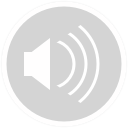
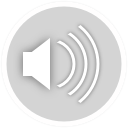
UI tweaks
Only show checkbox on hover in option 1
Update video/audio icons.
Added note about browsers

Changed region(s): [[0.1875, 0.1875, 0.8125, 0.8125], [0.125, 0.4062, 0.1875, 0.5938]]

diff --git a/asset-bank/panels/index.html b/asset-bank/panels/index.html
@@ -43,6 +43,7 @@
 		<div class="msg-info msg--noicon">
 			<h3>Asset Bank: Asset Panels Prototype</h3>
 			<ul>
+				<li>This prototype will not yet display correctly in Internet Explorer. Please use Chrome, Firefox or Safari.</li>
 				<li>These panels will appear when browsing and searching Asset Bank.</li>
 				<li>You can select the assets, add/remove from lightbox and click through to a dummy detail page.</li>
 				<li>The download links do not do anything, but show how extra functionality could be incorporated.</li>
@@ -56,7 +57,7 @@
 	
 
 
-		<h2>Option 1 <small>- More compact, controls overlay images</small></h2>
+		<h2>Option 1 <small>- More compact and minimal, controls appear on hover and overlay the images</small></h2>
 
 		<ul class="panel__collection">
 

diff --git a/asset-bank/panels/iconbtn.css b/asset-bank/panels/iconbtn.css
@@ -60,7 +60,7 @@
 	outline: 0;
 }
 
-.iconbtn__btn:hover > i
+.iconbtn__btn:hover > i,
 .iconbtn__btn:active > i,
 .iconbtn__btn:focus > i  {
 	color: #333;

diff --git a/asset-bank/panels/panels.css b/asset-bank/panels/panels.css
@@ -111,7 +111,7 @@
 	position: absolute;
 	top: 0;
 	left: 0;
-	opacity: 0.8;
+	opacity: 0;
 	transition: opacity 0.2s ease-out;
 	z-index: 10;
 }
